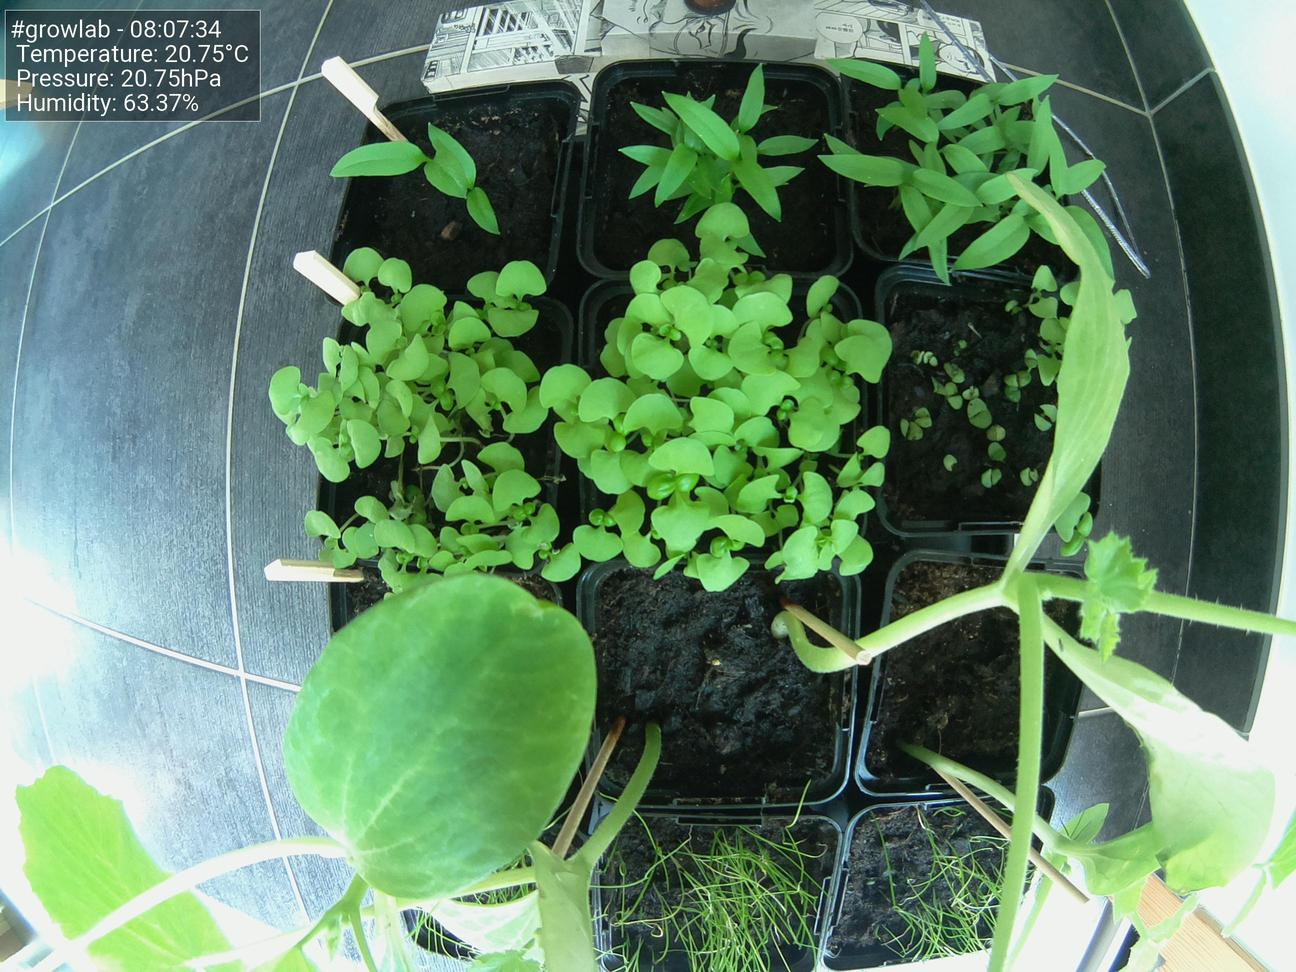
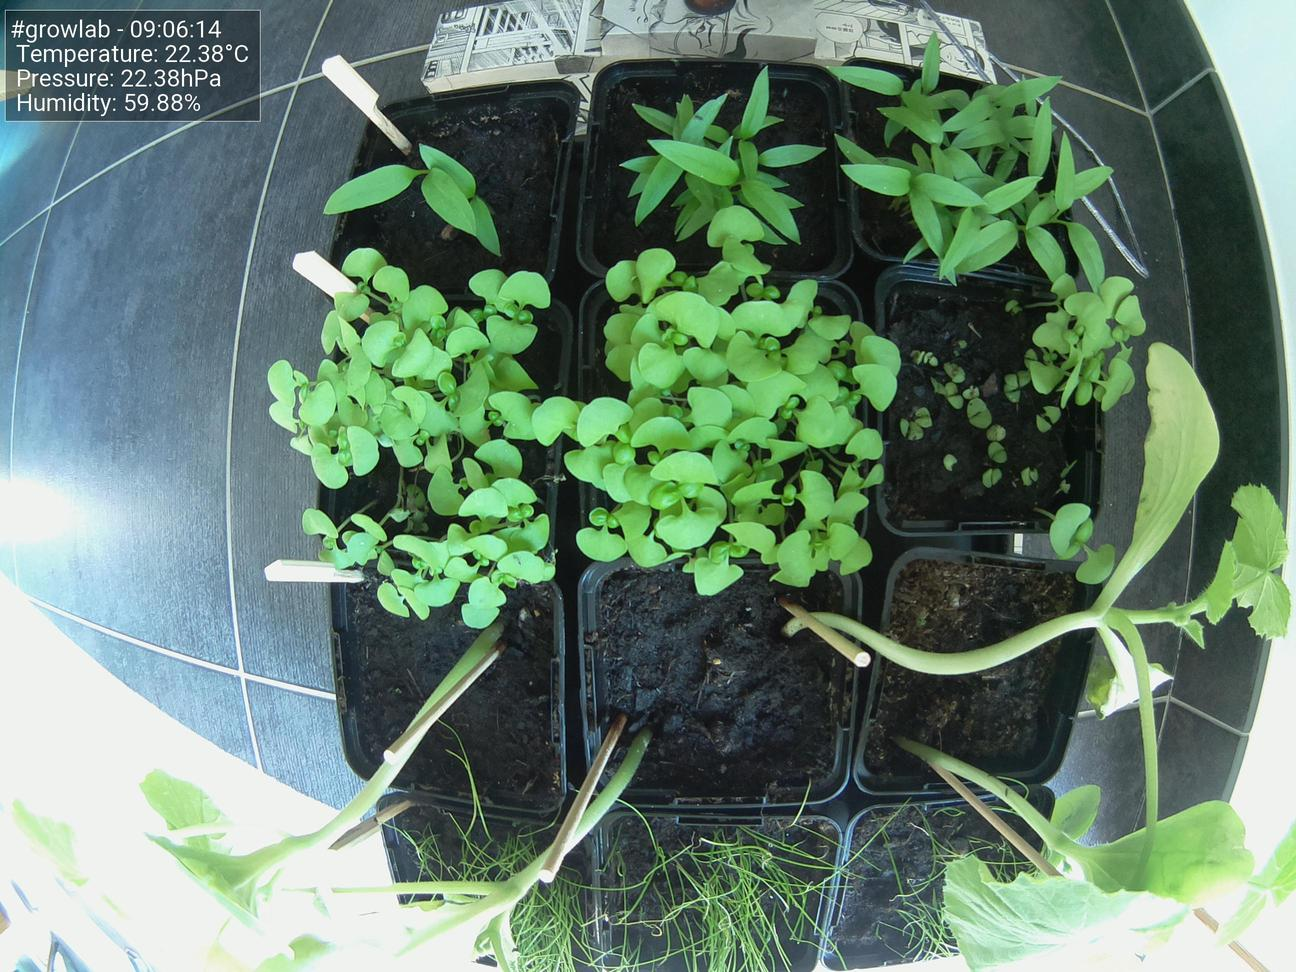
Update images at Tue  8 Jun 09:06:23 CEST 2021

diff --git a/index.html b/index.html
@@ -47,19 +47,19 @@
                         <tbody>
                             <tr>
                                 <td>Time</td>
-                                <td>08:07:34</td>
+                                <td>09:06:14</td>
                             </tr>
                             <tr>
                                 <td>Temperature</td>
-                                <td>20.75°C</td>
+                                <td>22.38°C</td>
                             </tr>
                             <tr>
                                 <td>Humidity</td>
-                                <td>63.37%</td>
+                                <td>59.88%</td>
                             </tr>
                             <tr>
                                 <td>Pressure</td>
-                                <td>20.75hPa</td>
+                                <td>22.38hPa</td>
                             </tr>
                         </tbody>
                     </table>
@@ -67,7 +67,7 @@
 
                 <h5>Latest image</h5>
                 <div style="width: 85%;">
-                            <img class="figure-img img-fluid rounded" src="./preview.jpg?uid=1623046062.6020515">
+                            <img class="figure-img img-fluid rounded" src="./preview.jpg?uid=1623135982.652705">
                 </div>
             </div>
         </div>
